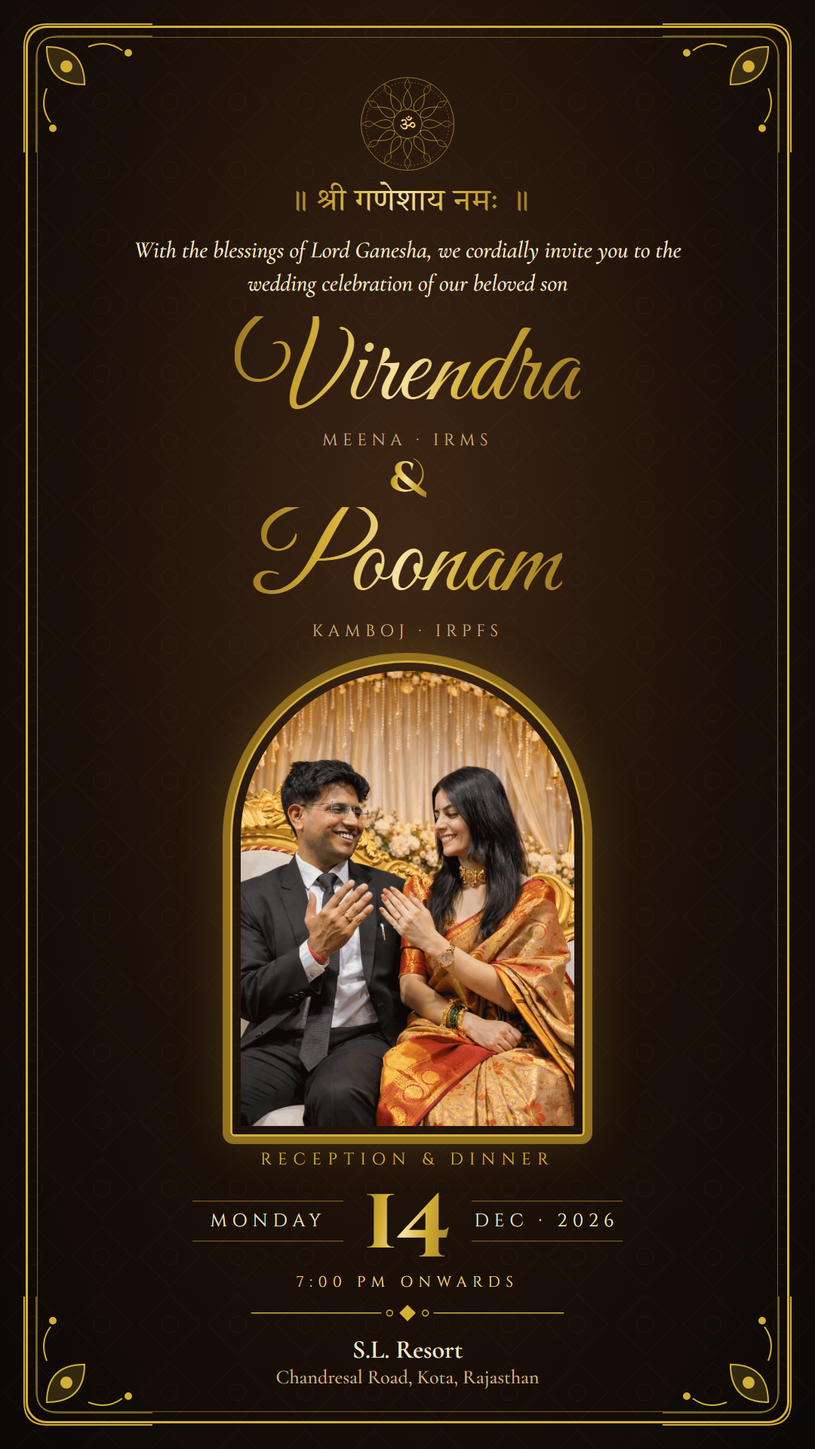
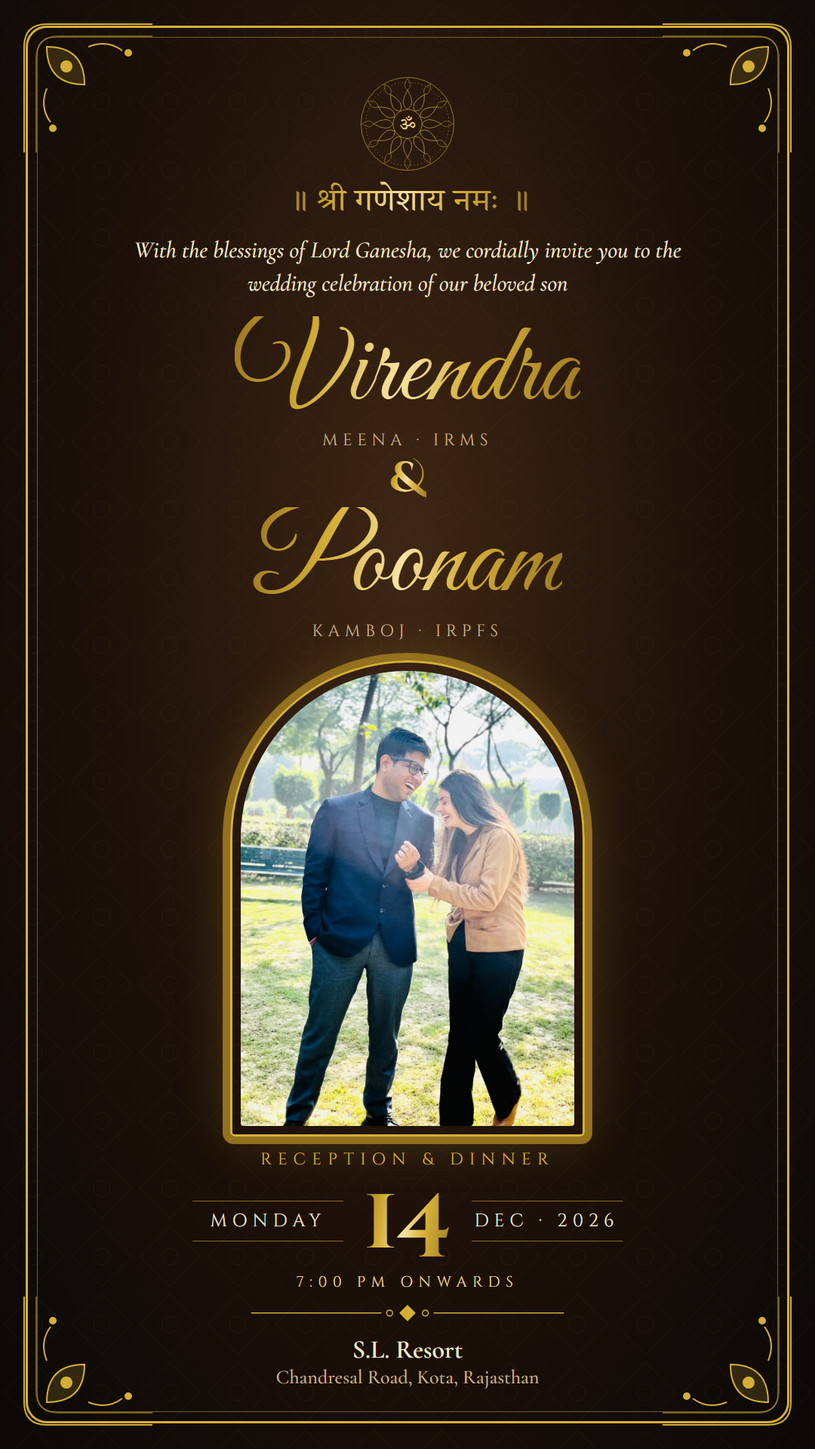
Update couple photo, add photo stories, faster train with food stalls
- New main couple photo across sites and e-cards
- Photo-story sections in Palace Garden, Gold Sketchbook and Royal Doors
- Wedding Express: shorter journey, chai/jalebi/kachori stalls at stations

Changed region(s): [[0.275, 0.4375, 0.7028, 0.7812]]

diff --git a/virendra-wedding/games/express/index.html b/virendra-wedding/games/express/index.html
@@ -10,7 +10,7 @@
 <meta property="og:description" content="Virendra weds Poonam · Reception & Dinner · Monday, 14 December 2026 · 7:00 PM onwards · S.L. Resort, Kota">
 <link rel="preconnect" href="https://fonts.googleapis.com">
 <link rel="preconnect" href="https://fonts.gstatic.com" crossorigin>
-<link href="https://fonts.googleapis.com/css2?family=Cinzel:wght@400;600;700;900&family=Cinzel+Decorative:wght@400;700&family=Cormorant+Garamond:ital,wght@0,400;0,500;0,600;0,700;1,400;1,500&family=Great+Vibes&family=Tiro+Devanagari+Hindi&display=swap" rel="stylesheet">
+<link href="https://fonts.googleapis.com/css2?family=Caveat:wght@700&family=Cinzel:wght@400;600;700;900&family=Cinzel+Decorative:wght@400;700&family=Cormorant+Garamond:ital,wght@0,400;0,500;0,600;0,700;1,400;1,500&family=Great+Vibes&family=Tiro+Devanagari+Hindi&display=swap" rel="stylesheet">
 <style>
 :root{
   --ink:#0B0806;--brown:#2A1A0E;--brown2:#3D2614;--gold:#D4AF37;--gold2:#F5D78E;--maroon:#5A1414;--cream:#F7ECD2;
@@ -381,7 +381,7 @@ a{color:var(--gold2)}
 
     <div class="foot">
       <button class="gbtn ghost" id="again" type="button">↻ Ride again</button>
-      <a class="gbtn ghost" href="../">← All versions</a>
+      <a class="gbtn ghost" href="../../">← All versions</a>
     </div>
   </article>
 </section>
@@ -750,11 +750,11 @@ function update(dt) {
       if (d <= 6) { G.v = 0; G.creep = false; arrive(G.next); }
       msg = 'Easing up to the platform…';
     } else {
-      if (L > 0.04 && !braking) a = L * 150 - 0.5 * Math.max(G.v, 0);
+      if (L > 0.04 && !braking) a = L * 270 - 0.46 * Math.max(G.v, 0);
       else {
         let dec = 12 + 0.06 * G.v;
         if (braking) dec = Math.max(dec, 210);
-        if (d > 0 && d < 1150 && G.v > 0) dec = Math.max(dec, Math.min(G.v * G.v / (2 * Math.max(d, 3)), 330));
+        if (d > 0 && d < 1500 && G.v > 0) dec = Math.max(dec, Math.min(G.v * G.v / (2 * Math.max(d, 3)), 330));
         if (d < -TOL) dec = Math.max(dec, 240);
         a = -dec;
       }
@@ -767,8 +767,8 @@ function update(dt) {
       const nm = titleCase(st.name);
       if (d < -TOL && L <= 0.04) msg = 'Past the platform — braking…';
       else if (d < -TOL) { msg = 'Release the throttle — we passed ' + nm + '!'; urgent = true; }
-      else if (d <= 1150 && L > 0.04) { msg = 'Approaching ' + nm + ' — <b>release the throttle</b> to stop at the gold mark'; urgent = true; }
-      else if (d <= 1150 && G.v > 0) msg = 'Coasting into ' + nm + '…';
+      else if (d <= 1500 && L > 0.04) { msg = 'Approaching ' + nm + ' — <b>release the throttle</b> to stop at the gold mark'; urgent = true; }
+      else if (d <= 1500 && G.v > 0) msg = 'Coasting into ' + nm + '…';
       else if (G.v < 1 && L <= 0.04) msg = 'Push the <b>THROTTLE</b> up to steam ahead<span class="keys">or hold → / Space · brake ← · horn H</span>';
     }
     G.x += G.v * dt;
@@ -1120,7 +1120,7 @@ const STN_STYLE = {
 };
 function drawStation(i, front) {
   const st = STATIONS[i], sx = SX(st.x, 1);
-  if (sx < -200 * s || sx > W + 560 * s) return;
+  if (sx < -420 * s || sx > W + 560 * s) return;
   const S = STN_STYLE[st.style], next = G.next === i && (G.state === 'ride');
   ctx.save(); ctx.translate(sx, trackY); ctx.scale(s, s);
   const lit = (i === 3 ? Math.max(G.lights, smooth(6000, 8000, G.x)) : smooth(6000, 8000, G.x));
@@ -1166,6 +1166,13 @@ function drawStation(i, front) {
       ctx.fillStyle = '#2A1A0E'; ctx.fillRect(lx - 1.5, -150, 3, 126); ctx.fillRect(lx - 8, -150, 16, 3);
       ctx.fillStyle = lit > 0.1 ? '#FFE9A8' : '#C9B38A'; ctx.beginPath(); ctx.arc(lx, -144, 5, 0, 7); ctx.fill();
       if (lit > 0.05) LIGHTS.push({ x: SX(st.x, 1) + lx * s, y: trackY - 144 * s, r: 34 * s, c: '255,220,140', a: lit });
+    }
+    // food stall just past the platform end, in view when the train stops
+    if (i < 3) {
+      ctx.fillStyle = '#9A8068'; ctx.fillRect(px1, -24, 300, 20);
+      ctx.fillStyle = '#7A6250'; ctx.fillRect(px1, -10, 300, 6);
+      ctx.fillStyle = '#E8C547'; ctx.fillRect(px1, -24, 300, 2.5);
+      stall(px1 - 60, ['chai', 'jalebi', 'kachori'][i], lit, st.x);
     }
     // stop zone highlight
     if (next) {
@@ -1221,6 +1228,95 @@ function toran(x0, x1, y, n) {
     }
     ctx.fillStyle = '#3F7A2A'; ctx.beginPath(); ctx.ellipse(a + w / 2, y + 14, 2.2, 5, 0, 0, 7); ctx.fill();
   }
+}
+
+/* platform food stalls: chai, jalebi, Kota kachori */
+const STALLS = {
+  chai:    { sign: 'चाय · CHAI',          call: 'Chai garam! Kadak chai!', awn: ['#B3201E', '#F3E6C4'] },
+  jalebi:  { sign: 'जलेबी · JALEBI',       call: 'Garma-garam jalebi!',     awn: ['#E2791B', '#F3E6C4'] },
+  kachori: { sign: 'कोटा कचौरी · KACHORI', call: 'Famous Kota kachori!',    awn: ['#2F6B3A', '#F3E6C4'] }
+};
+function stall(x, type, lit, worldX) {
+  const S = STALLS[type], t = G.t, W0 = 142;
+  ctx.save(); ctx.translate(x, 0);
+  // posts + counter
+  ctx.fillStyle = '#4A2E18'; ctx.fillRect(4, -132, 5, 108); ctx.fillRect(W0 - 9, -132, 5, 108);
+  ctx.fillStyle = '#6B4325'; ctx.fillRect(0, -64, W0, 40);
+  ctx.fillStyle = '#D4AF37'; ctx.fillRect(0, -64, W0, 3); ctx.fillRect(0, -27, W0, 3);
+  ctx.strokeStyle = 'rgba(0,0,0,.25)'; ctx.lineWidth = 1;
+  for (let k = 20; k < W0; k += 22) { ctx.beginPath(); ctx.moveTo(k, -61); ctx.lineTo(k, -27); ctx.stroke(); }
+  // vendor (behind counter)
+  const wave = Math.sin(t * 3) * 0.5;
+  ctx.fillStyle = '#F3E6C4'; rr(ctx, 98, -100, 30, 38, 6); ctx.fill();               // kurta
+  ctx.fillStyle = '#C68B59'; ctx.beginPath(); ctx.arc(113, -110, 10, 0, 7); ctx.fill(); // face
+  ctx.fillStyle = type === 'kachori' ? '#E2791B' : '#B3201E';                              // pagdi
+  ctx.beginPath(); ctx.ellipse(113, -119, 12, 6, 0, 0, 7); ctx.fill();
+  ctx.fillStyle = '#2A1A0E'; ctx.fillRect(108, -112, 2, 2); ctx.fillRect(116, -112, 2, 2);
+  ctx.strokeStyle = '#2A1A0E'; ctx.lineWidth = 1.2; ctx.beginPath(); ctx.arc(113, -107, 3, 0.2, Math.PI - 0.2); ctx.stroke();
+  ctx.save(); ctx.translate(126, -94); ctx.rotate(-1.1 + wave); ctx.fillStyle = '#F3E6C4'; ctx.fillRect(0, -3, 22, 6); ctx.fillStyle = '#C68B59'; ctx.beginPath(); ctx.arc(23, 0, 4, 0, 7); ctx.fill(); ctx.restore();
+  // goods on the counter
+  if (type === 'chai') {
+    ctx.fillStyle = '#3A3A3A'; ctx.fillRect(18, -72, 34, 8);                                 // stove
+    ctx.fillStyle = '#B8B8B8'; ctx.beginPath(); ctx.ellipse(35, -84, 16, 13, 0, 0, 7); ctx.fill(); // kettle
+    ctx.fillStyle = '#8E8E8E'; ctx.fillRect(28, -100, 14, 5);
+    ctx.strokeStyle = '#B8B8B8'; ctx.lineWidth = 4; ctx.beginPath(); ctx.moveTo(50, -86); ctx.lineTo(60, -96); ctx.stroke();
+    for (let k = 0; k < 4; k++) { ctx.fillStyle = '#B5562E'; const cx = 64 + k * 9; ctx.beginPath(); ctx.moveTo(cx, -76); ctx.lineTo(cx + 7, -76); ctx.lineTo(cx + 5.5, -64); ctx.lineTo(cx + 1.5, -64); ctx.fill(); }
+    steam(58, -100, t);
+  } else if (type === 'jalebi') {
+    ctx.fillStyle = '#1C1C1C'; ctx.beginPath(); ctx.ellipse(40, -70, 24, 9, 0, 0, Math.PI); ctx.fill(); // kadhai
+    ctx.fillStyle = '#C89A3C'; ctx.fillRect(16, -72, 48, 3);
+    for (let k = 0; k < 5; k++) jalebi(64 + (k % 3) * 11, -72 - Math.floor(k / 3) * 9);
+    steam(40, -80, t);
+  } else {
+    ctx.fillStyle = '#1C1C1C'; ctx.beginPath(); ctx.ellipse(38, -70, 24, 9, 0, 0, Math.PI); ctx.fill(); // kadhai
+    ctx.fillStyle = '#C89A3C'; ctx.fillRect(14, -72, 48, 3);
+    for (let k = 0; k < 3; k++) kachori(28 + k * 10, -73 + (k % 2) * 2);
+    ctx.fillStyle = '#C89A3C'; ctx.fillRect(60, -66, 34, 3);                                    // tray
+    [[66, -71], [76, -71], [86, -71], [71, -79], [81, -79], [76, -87]].forEach(([a, b]) => kachori(a, b));
+    steam(38, -80, t);
+  }
+  // striped awning with scallops
+  const [c1, c2] = S.awn;
+  for (let k = 0; k < 10; k++) {
+    ctx.fillStyle = k % 2 ? c2 : c1; const ax = -8 + k * ((W0 + 16) / 10), aw = (W0 + 16) / 10;
+    ctx.fillRect(ax, -150, aw, 20); ctx.beginPath(); ctx.arc(ax + aw / 2, -130, aw / 2, 0, Math.PI); ctx.fill();
+  }
+  // sign board
+  ctx.fillStyle = '#2A1A0E'; rr(ctx, 14, -176, W0 - 28, 24, 4); ctx.fill(); ctx.strokeStyle = '#D4AF37'; ctx.lineWidth = 1.5; ctx.stroke();
+  ctx.fillStyle = '#F5D78E'; ctx.textAlign = 'center'; ctx.textBaseline = 'middle';
+  ctx.font = '600 10px "Tiro Devanagari Hindi", Cinzel, serif'; ctx.fillText(S.sign, W0 / 2, -163);
+  // string bulbs at night
+  if (lit > 0.05) for (let q = 6; q < W0; q += 18) LIGHTS.push({ x: SX(worldX, 1) + (x + q) * s, y: trackY - 152 * s, r: 9 * s, c: '255,210,130', a: lit });
+  // the vendor calls out when the train is near
+  const near = Math.abs(G.x - worldX) < 700;
+  if (near) {
+    const bob = Math.sin(t * 3.2) * 2, bw = 132, bx = 4;
+    ctx.fillStyle = 'rgba(255,248,230,.96)'; rr(ctx, bx, -232 + bob, bw, 30, 12); ctx.fill();
+    ctx.beginPath(); ctx.moveTo(98, -203 + bob); ctx.lineTo(108, -190 + bob); ctx.lineTo(114, -203 + bob); ctx.fill();
+    ctx.strokeStyle = '#D4AF37'; ctx.lineWidth = 1.2; rr(ctx, bx, -232 + bob, bw, 30, 12); ctx.stroke();
+    ctx.fillStyle = '#5A1414'; ctx.font = '700 15px Caveat, "Comic Sans MS", cursive'; ctx.fillText(S.call, bx + bw / 2, -216 + bob);
+  }
+  ctx.restore();
+}
+function steam(x, y, t) {
+  if (RM) return;
+  ctx.strokeStyle = 'rgba(255,255,255,.55)'; ctx.lineWidth = 2;
+  for (let k = 0; k < 3; k++) {
+    const p = ((t * 0.6 + k / 3) % 1), yy = y - p * 34;
+    ctx.globalAlpha = 1 - p; ctx.beginPath();
+    for (let q = 0; q <= 10; q++) { const py = yy - q * 1.6, px = x + k * 6 + Math.sin(q * 0.7 + t * 3 + k) * 3; q ? ctx.lineTo(px, py) : ctx.moveTo(px, py); }
+    ctx.stroke();
+  }
+  ctx.globalAlpha = 1;
+}
+function jalebi(x, y) {
+  ctx.strokeStyle = '#F28C28'; ctx.lineWidth = 2.4; ctx.beginPath();
+  for (let a = 0; a < Math.PI * 5; a += 0.3) { const r = 1 + a * 0.32; const px = x + Math.cos(a) * r, py = y + Math.sin(a) * r * 0.7; a ? ctx.lineTo(px, py) : ctx.moveTo(px, py); }
+  ctx.stroke();
+}
+function kachori(x, y) {
+  ctx.fillStyle = '#C9862E'; ctx.beginPath(); ctx.ellipse(x, y, 5.5, 4, 0, 0, 7); ctx.fill();
+  ctx.fillStyle = '#E8B25A'; ctx.beginPath(); ctx.ellipse(x - 1, y - 1.2, 3, 1.8, 0, 0, 7); ctx.fill();
 }
 
 /* the royal train */
@@ -1397,7 +1493,7 @@ function drawParts() {
 /* ------------------------------------------------------------------ HUD sync */
 let lastHud = { kmh: -1, lv: -1, info: '', eng: -1 };
 function syncHud() {
-  const kmh = Math.round(Math.abs(G.v) * 0.4);
+  const kmh = Math.round(Math.abs(G.v) * 0.21);
   if (kmh !== lastHud.kmh) { $('#kmh').textContent = kmh; const n = needle(); if (n) n.style.transform = `rotate(${-90 + 180 * clamp(kmh / 120, 0, 1)}deg)`; lastHud.kmh = kmh; }
   const lv = Math.round(G.lever * 100);
   if (lv !== lastHud.lv) {

diff --git a/virendra-wedding/invite2/index.html b/virendra-wedding/invite2/index.html
@@ -42,7 +42,7 @@ svg.doodle{fill:none;stroke:var(--line);stroke-width:1.6;stroke-linecap:round;st
 #cover{position:fixed;inset:0;z-index:50;display:flex;justify-content:center;background:#000;transition:opacity 1.2s ease,visibility 1.2s}
 #cover.gone{opacity:0;visibility:hidden}
 #cover .inner{position:relative;width:min(480px,100vw);height:100%;overflow:hidden}
-#cover .bgph{position:absolute;inset:0;background:url(../assets/couple.jpg) 50% 30%/cover;filter:grayscale(.35) sepia(.35) brightness(.55) contrast(1.05);transform:scale(1.08);animation:kb 18s ease-in-out infinite alternate}
+#cover .bgph{position:absolute;inset:17% 0 0 0;-webkit-mask-image:linear-gradient(180deg,transparent,#000 14%);mask-image:linear-gradient(180deg,transparent,#000 14%);background:url(../assets/couple.jpg) 50% 30%/cover;filter:grayscale(.35) sepia(.35) brightness(.55) contrast(1.05);transform:scale(1.08);animation:kb 18s ease-in-out infinite alternate}
 @keyframes kb{to{transform:scale(1.18) translate(-2%,-2%)}}
 #cover .shade{position:absolute;inset:0;background:linear-gradient(180deg,rgba(0,0,0,.55),rgba(0,0,0,.05) 35%,rgba(0,0,0,.25) 60%,rgba(0,0,0,.85))}
 #cover .yi{position:absolute;top:13%;left:0;right:0;text-align:center}
@@ -65,7 +65,7 @@ svg.doodle{fill:none;stroke:var(--line);stroke-width:1.6;stroke-linecap:round;st
 @keyframes pulse{50%{opacity:.45}}
 .strip{position:absolute;right:-6px;top:28px;width:52px;padding:5px 5px 14px;background:#EFE6D3;transform:rotate(9deg);box-shadow:0 4px 12px rgba(0,0,0,.5);z-index:5}
 .strip div{height:44px;margin-bottom:4px;background:url(../assets/couple.jpg) center/cover;filter:grayscale(1) contrast(1.1)}
-.strip div:nth-child(1){background-position:20% 25%}.strip div:nth-child(2){background-position:80% 25%}.strip div:nth-child(3){background-position:50% 60%}
+.strip div:nth-child(1){background-position:48% 18%}.strip div:nth-child(2){background-position:68% 26%}.strip div:nth-child(3){background-position:50% 45%}
 #cover.opened .flap{transform:rotateX(180deg)}
 #cover.opened .wax{opacity:0;transform:translate(-50%,-50%) scale(.5)}
 #cover.opened .letter{transform:translateY(-120px)}
@@ -108,6 +108,22 @@ svg.doodle{fill:none;stroke:var(--line);stroke-width:1.6;stroke-linecap:round;st
 .sketchframe{position:relative;width:290px;margin:26px auto 0;padding:16px}
 .sketchframe .ph{aspect-ratio:4/5;background:url(../assets/couple.jpg) 50% 30%/cover;filter:grayscale(1) contrast(1.1) brightness(.95)}
 .sketchframe svg{position:absolute;inset:0;width:100%;height:100%;overflow:visible}
+
+/* ---------- story polaroids ---------- */
+.story{padding-left:10px;padding-right:10px}
+.line{position:relative;display:flex;justify-content:center;gap:6px;margin-top:18px;padding-top:6px}
+.line > svg{position:absolute;left:0;right:0;top:0;width:100%;height:60px}
+.pg{position:relative;flex:0 0 31%;margin:0;padding:6px 6px 26px;background:#EFE6D3;box-shadow:0 10px 22px rgba(0,0,0,.55);transform:translateY(var(--y)) rotate(var(--r));transform-origin:50% -8px;animation:sway 5s ease-in-out infinite;cursor:zoom-in}
+.pg:nth-child(3){animation-delay:-1.6s}.pg:nth-child(4){animation-delay:-3.2s}
+@keyframes sway{50%{transform:translateY(var(--y)) rotate(calc(var(--r) * -0.6))}}
+.pg .ph{aspect-ratio:3/4;background-size:cover;filter:sepia(.15) contrast(1.03)}
+.pg figcaption{position:absolute;left:0;right:0;bottom:4px;font-family:Caveat;font-size:16px;color:#3A2A18;line-height:1}
+.pin{position:absolute;left:50%;top:-14px;width:10px;height:24px;margin-left:-5px;border-radius:2px;background:linear-gradient(90deg,#C9A04A,#F2DC9B,#9C7F3C);box-shadow:0 2px 3px rgba(0,0,0,.4)}
+#lightbox{position:fixed;inset:0;z-index:70;background:rgba(8,6,4,.92);display:none;align-items:center;justify-content:center;flex-direction:column;padding:24px;cursor:zoom-out}
+#lightbox.show{display:flex}
+#lightbox img{max-width:min(440px,92vw);max-height:76vh;border:8px solid #EFE6D3;border-bottom-width:40px;box-shadow:0 20px 60px rgba(0,0,0,.7);animation:pop .4s cubic-bezier(.2,1.4,.4,1)}
+#lightbox p{font-family:Caveat;font-size:26px;color:#3A2A18;margin-top:-36px;position:relative}
+@keyframes pop{from{transform:scale(.8) rotate(-4deg);opacity:0}}
 
 /* ---------- calendar ---------- */
 .month{font-family:"Josefin Sans";font-weight:300;font-size:40px;letter-spacing:.2em;margin:4px 0 6px}
@@ -152,8 +168,8 @@ svg.doodle{fill:none;stroke:var(--line);stroke-width:1.6;stroke-linecap:round;st
 .pc:nth-child(2) .lab{transform:rotate(5deg)}
 .pc .pol{background:#EFE6D3;padding:7px 7px 30px;box-shadow:0 8px 20px rgba(0,0,0,.5);transform:rotate(-3deg);margin-top:6px;position:relative}
 .pc:nth-child(2) .pol{transform:rotate(3deg)}
-.pc .pol div{aspect-ratio:3/4;background:url(../assets/couple.jpg) 22% 22%/260% auto;filter:sepia(.2)}
-.pc:nth-child(2) .pol div{background-position:74% 22%}
+.pc .pol div{aspect-ratio:3/4;background:url(../assets/couple.jpg) 42% 20%/260% auto;filter:sepia(.2)}
+.pc:nth-child(2) .pol div{background-position:79% 32%}
 .pc .pol span{position:absolute;bottom:6px;left:0;right:0;font-family:Caveat;font-size:19px;color:#3A2A18}
 .pc .nm{font-family:"Josefin Sans";font-weight:600;letter-spacing:.12em;font-size:15px;margin-top:16px}
 .pc .svc{font-family:"Josefin Sans";font-size:10px;letter-spacing:.3em;color:var(--soft)}
@@ -257,6 +273,19 @@ svg.doodle{fill:none;stroke:var(--line);stroke-width:1.6;stroke-linecap:round;st
       </svg>
     </div>
     <p class="caps rv" style="font-size:13px;margin-top:22px;color:var(--gl)">Let's celebrate together</p>
+  </section>
+
+  <!-- ================= OUR STORY (pegged polaroids) ================= -->
+  <section class="story">
+    <p class="caps rv" style="font-size:12px;color:var(--soft)">Little pieces of</p>
+    <p class="script g rv d1" style="font-size:60px;line-height:1">our story</p>
+    <div class="line rv d2">
+      <svg class="doodle" viewBox="0 0 420 60" preserveAspectRatio="none" aria-hidden="true"><path d="M0 8 C120 52 300 52 420 8"/></svg>
+      <figure class="pg" style="--r:-7deg;--y:26px"><span class="pin"></span><div class="ph" style="background-image:url(../assets/story-2.jpg);background-position:50% 40%"></div><figcaption>a touch of tradition</figcaption></figure>
+      <figure class="pg" style="--r:4deg;--y:44px"><span class="pin"></span><div class="ph" style="background-image:url(../assets/story-3.jpg);background-position:40% 62%"></div><figcaption>golden hours</figcaption></figure>
+      <figure class="pg" style="--r:-3deg;--y:24px"><span class="pin"></span><div class="ph" style="background-image:url(../assets/story-4.jpg);background-position:55% 40%"></div><figcaption>laughing, always</figcaption></figure>
+    </div>
+    <p class="hand rv" style="font-size:20px;color:var(--soft);margin-top:46px">tap a photo ✦</p>
   </section>
 
   <!-- ================= CALENDAR ================= -->
@@ -377,6 +406,13 @@ const $=s=>document.querySelector(s),reduce=matchMedia('(prefers-reduced-motion:
 document.querySelectorAll('.draw').forEach(svg=>svg.querySelectorAll('path,circle,rect,ellipse,line,polyline').forEach(el=>{try{const L=Math.ceil(el.getTotalLength());el.style.strokeDasharray=L;el.style.strokeDashoffset=L;el.style.setProperty('--len',L)}catch(e){}}));
 const io=new IntersectionObserver(es=>es.forEach(e=>{if(e.isIntersecting){e.target.classList.add('in');e.target.querySelectorAll&&e.target.querySelectorAll('path,circle,rect,ellipse,line,polyline').forEach(el=>{if(e.target.classList.contains('draw'))el.style.strokeDashoffset=0});io.unobserve(e.target)}}),{threshold:.2});
 function arm(){document.querySelectorAll('.rv,.draw').forEach(el=>io.observe(el))}
+
+/* story lightbox */
+(function(){const lb=document.createElement('div');lb.id='lightbox';lb.setAttribute('role','dialog');lb.setAttribute('aria-label','Photo');lb.innerHTML='<img alt=""><p></p>';document.body.appendChild(lb);
+  document.querySelectorAll('.pg').forEach(f=>{f.tabIndex=0;f.setAttribute('role','button');const open=()=>{const u=f.querySelector('.ph').style.backgroundImage.slice(5,-2);lb.querySelector('img').src=u;lb.querySelector('img').alt=f.querySelector('figcaption').textContent;lb.querySelector('p').textContent=f.querySelector('figcaption').textContent;lb.classList.add('show')};
+    f.addEventListener('click',open);f.addEventListener('keydown',e=>{if(e.key==='Enter'||e.key===' '){e.preventDefault();open()}})});
+  lb.addEventListener('click',()=>lb.classList.remove('show'));addEventListener('keydown',e=>{if(e.key==='Escape')lb.classList.remove('show')});
+})();
 
 /* calendar Dec 2026 — 1 Dec is Tuesday */
 (function(){const c=$('#cal');let h='';['MON','TUE','WED','THU','FRI','SAT','SUN'].forEach(d=>h+=`<span class="h">${d}</span>`);

diff --git a/virendra-wedding/invite/index.html b/virendra-wedding/invite/index.html
@@ -115,6 +115,20 @@ body::after{content:"";position:fixed;inset:0;z-index:0;opacity:.06;background-i
 .photo .bloom{position:absolute;width:110px;bottom:-26px}
 .photo .bloom.l{left:-44px}.photo .bloom.r{right:-44px;transform:scaleX(-1)}
 
+/* moments carousel */
+.moments{background:linear-gradient(180deg,var(--paper),var(--paper2));padding-left:0;padding-right:0}
+.reel{position:relative;display:flex;gap:18px;overflow-x:auto;scroll-snap-type:x mandatory;padding:14px 60px 6px;scrollbar-width:none;-webkit-overflow-scrolling:touch}
+.reel::-webkit-scrollbar{display:none}
+.reel figure{flex:0 0 72%;scroll-snap-align:center;margin:0}
+.reel .af{aspect-ratio:3/4;border-radius:999px 999px 12px 12px;overflow:hidden;box-shadow:0 0 0 2px var(--gold),0 0 0 7px rgba(201,160,74,.15),0 14px 30px rgba(59,36,22,.3);transition:transform .5s}
+.reel .af img{width:100%;height:100%;object-fit:cover}
+.reel figure:hover .af{transform:translateY(-4px)}
+.reel figcaption{font-family:"Great Vibes",cursive;font-size:30px;color:var(--rose);margin-top:12px}
+.rdots{display:flex;justify-content:center;gap:8px;margin-top:6px}
+.rdots i{width:7px;height:7px;border-radius:50%;background:rgba(140,106,28,.3);transition:background .3s,transform .3s}
+.rdots i.on{background:var(--gold);transform:scale(1.3)}
+.swipe{font-family:Cinzel,serif;font-size:10px;letter-spacing:.3em;color:var(--soft);margin-top:8px}
+
 /* save the date */
 .std{background:linear-gradient(180deg,var(--paper2),var(--paper))}
 .heart{position:relative;width:250px;height:230px;margin:18px auto 10px}
@@ -322,6 +336,20 @@ body::after{content:"";position:fixed;inset:0;z-index:0;opacity:.06;background-i
     </div>
   </section>
 
+  <!-- ========== OUR MOMENTS ========== -->
+  <section class="sec moments">
+    <p class="ey2 rv">A few of our</p>
+    <h2 class="h rv d1">Moments</h2>
+    <svg class="divi rv d1" viewBox="0 0 200 24"><use href="#flourish"/></svg>
+    <div class="reel rv d2" id="reel" tabindex="0" aria-label="Photo story — swipe to see more">
+      <figure><div class="af"><img src="../assets/story-2.jpg" alt="Poonam in a yellow dupatta and Virendra in a white kurta" loading="lazy" style="object-position:50% 40%"></div><figcaption>A touch of tradition</figcaption></figure>
+      <figure><div class="af"><img src="../assets/story-3.jpg" alt="Virendra and Poonam on a heritage terrace at sunset" loading="lazy" style="object-position:40% 60%"></div><figcaption>Golden hours</figcaption></figure>
+      <figure><div class="af"><img src="../assets/story-4.jpg" alt="Virendra and Poonam laughing in a garden" loading="lazy" style="object-position:55% 40%"></div><figcaption>Laughing, always</figcaption></figure>
+    </div>
+    <div class="rdots" id="rdots" aria-hidden="true"><i class="on"></i><i></i><i></i></div>
+    <p class="swipe rv">swipe ⟷</p>
+  </section>
+
   <!-- ========== SAVE THE DATE ========== -->
   <section class="sec std">
     <p class="ey2 rv">Mark your calendar</p>
@@ -423,6 +451,14 @@ function open(){if(gate.classList.contains('open'))return;gate.classList.add('op
   setTimeout(()=>gate.classList.add('gone'),2100)}
 $('#openBtn').addEventListener('click',open);
 if(location.hash==='#open'){gate.classList.add('open','gone');document.body.classList.remove('locked');document.querySelectorAll('.rv,#photo').forEach(e=>e.classList.add('in'))}
+
+/* moments carousel dots + gentle autoplay until the guest touches it */
+(function(){const r=$('#reel'),dots=[...document.querySelectorAll('#rdots i')];let touched=false,idx=0;
+  const cur=()=>{const f=[...r.children];let b=0,bd=1e9;f.forEach((el,i)=>{const d=Math.abs(el.offsetLeft+el.offsetWidth/2-(r.scrollLeft+r.clientWidth/2));if(d<bd){bd=d;b=i}});return b};
+  r.addEventListener('scroll',()=>{idx=cur();dots.forEach((d,i)=>d.classList.toggle('on',i===idx))},{passive:true});
+  ['pointerdown','touchstart','wheel','keydown'].forEach(e=>r.addEventListener(e,()=>touched=true,{passive:true}));
+  if(!reduce)setInterval(()=>{if(touched||document.body.classList.contains('locked'))return;const f=r.children[(idx+1)%r.children.length];r.scrollTo({left:f.offsetLeft-(r.clientWidth-f.offsetWidth)/2,behavior:'smooth'})},3800);
+})();
 
 /* countdown */
 const T=new Date('2026-12-14T19:00:00+05:30').getTime(),pad=n=>String(n).padStart(2,'0');

diff --git a/virendra-wedding/website/index.html b/virendra-wedding/website/index.html
@@ -84,6 +84,15 @@ h2{font-family:"Cinzel Decorative",serif;font-size:clamp(24px,6.4vw,52px);overfl
 .arch .crown{position:absolute;left:50%;top:-34px;transform:translateX(-50%);width:120px}
 .caption{font-family:"Great Vibes",cursive;font-size:clamp(36px,6vw,52px);margin-top:28px}
 
+/* moments */
+.moments{display:grid;grid-template-columns:repeat(3,1fr);gap:22px;margin-top:22px}
+.moments figure{margin:0}
+.moments .mf{aspect-ratio:3/4;border-radius:999px 999px 12px 12px;overflow:hidden;border:2px solid var(--gold);box-shadow:0 0 0 6px rgba(212,175,55,.08),0 20px 50px rgba(0,0,0,.6);transition:transform .5s}
+.moments .mf img{width:100%;height:100%;object-fit:cover;transition:transform 1.2s}
+.moments figure:hover .mf img{transform:scale(1.06)}
+.moments figcaption{font-family:"Great Vibes",cursive;font-size:30px;margin-top:10px}
+@media (max-width:640px){.moments{grid-template-columns:1fr;max-width:300px;margin-left:auto;margin-right:auto}}
+
 /* families */
 .fam{display:grid;grid-template-columns:1fr 1fr;gap:28px;margin-top:20px;text-align:center}
 .card{position:relative;border:1px solid rgba(212,175,55,.45);border-radius:18px;padding:36px 22px 30px;background:linear-gradient(180deg,rgba(61,38,20,.55),rgba(11,8,6,.6));backdrop-filter:blur(2px)}
@@ -203,6 +212,19 @@ footer p{color:var(--muted);font-size:15px;letter-spacing:.1em}
       <svg class="crown" viewBox="0 0 120 50" aria-hidden="true"><g fill="none" stroke="#D4AF37" stroke-width="1.4"><path d="M10 44 Q60 -10 110 44"/><path d="M30 44 Q60 10 90 44"/><circle cx="60" cy="14" r="6" fill="#D4AF37"/><path d="M60 26 L60 44"/></g></svg>
     </div>
     <p class="caption gold reveal">Two hearts, one journey</p>
+  </div>
+</section>
+
+<!-- MOMENTS -->
+<section style="min-height:auto">
+  <div class="wrap">
+    <p class="eyebrow reveal">Our Moments</p>
+    <h2 class="gold reveal d1">Little Pieces Of Us</h2>
+    <div class="moments">
+      <figure class="reveal d2"><div class="mf"><img src="../assets/story-2.jpg" alt="Poonam in a yellow dupatta and Virendra in a white kurta" loading="lazy" style="object-position:50% 40%"></div><figcaption class="gold">A touch of tradition</figcaption></figure>
+      <figure class="reveal d3"><div class="mf"><img src="../assets/story-3.jpg" alt="Virendra and Poonam on a heritage terrace at sunset" loading="lazy" style="object-position:40% 62%"></div><figcaption class="gold">Golden hours</figcaption></figure>
+      <figure class="reveal d4"><div class="mf"><img src="../assets/story-4.jpg" alt="Virendra and Poonam laughing in a garden" loading="lazy" style="object-position:55% 40%"></div><figcaption class="gold">Laughing, always</figcaption></figure>
+    </div>
   </div>
 </section>
 

diff --git a/virendra-wedding/games/quest/index.html b/virendra-wedding/games/quest/index.html
@@ -221,7 +221,7 @@ body.portrait #bJ{width:96px;height:96px}
 
     <div class="foot">
       <button class="btn" id="bAgain" type="button">&#9654; Play again</button>
-      <a class="btn ghost" href="../">&larr; All versions</a>
+      <a class="btn ghost" href="../../">&larr; All versions</a>
     </div>
   </div>
 </div>
